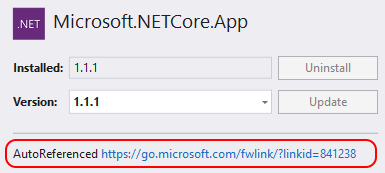
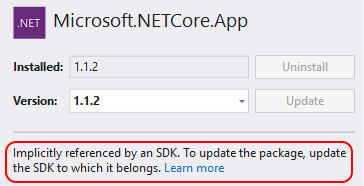
Update Implicit Referenced UI

diff --git a/docs/Tools/Package-Manager-UI.md b/docs/Tools/Package-Manager-UI.md
@@ -5,7 +5,7 @@ title: NuGet Package Manager UI Reference | Microsoft Docs
 author: kraigb
 ms.author: kraigb
 manager: ghogen
-ms.date: 7/24/2017
+ms.date: 07/24/2017
 ms.topic: article
 ms.prod: nuget
 #ms.service:
@@ -81,9 +81,9 @@ In this topic:
 
     ![Updating a package](media/UpdatePackages.png)
 
-4. If the **Update** button is disabled and the package is marked as **AutoReferenced**, it means that it's part of a larger framework or SDK and should not be updated independently. (These packages, such as Microsoft.NETCore.App and Microsoft.NETStandard.Library, are marked internally with `<IsImplicitlyDefined>True</IsImplicitlyDefined>`.) To update the package, you must update the SDK to which it belongs.
+4. For some packages, the **Update** button is disabled and the package a message appears saying that it's "Implicitly referenced by an SDK". (In some versions of Visual Studio the text may read only "AutoReferenced".) These conditions indicate that the package, such as Microsoft.NETCore.App, is part of a larger framework or SDK and should not be updated independently. (Such packages, of which Microsoft.NETStandard.Library is another example, are marked internally with `<IsImplicitlyDefined>True</IsImplicitlyDefined>`.) To update the package, you must update the SDK to which it belongs.
 
-    ![Example package marked as AutoReferenced](media/PackageManagerUIAutoReferenced.png)
+    ![Example package marked as Implicitly references or AutoReferenced](media/PackageManagerUIAutoReferenced.png)
 
 
 ## Managing packages for the solution
